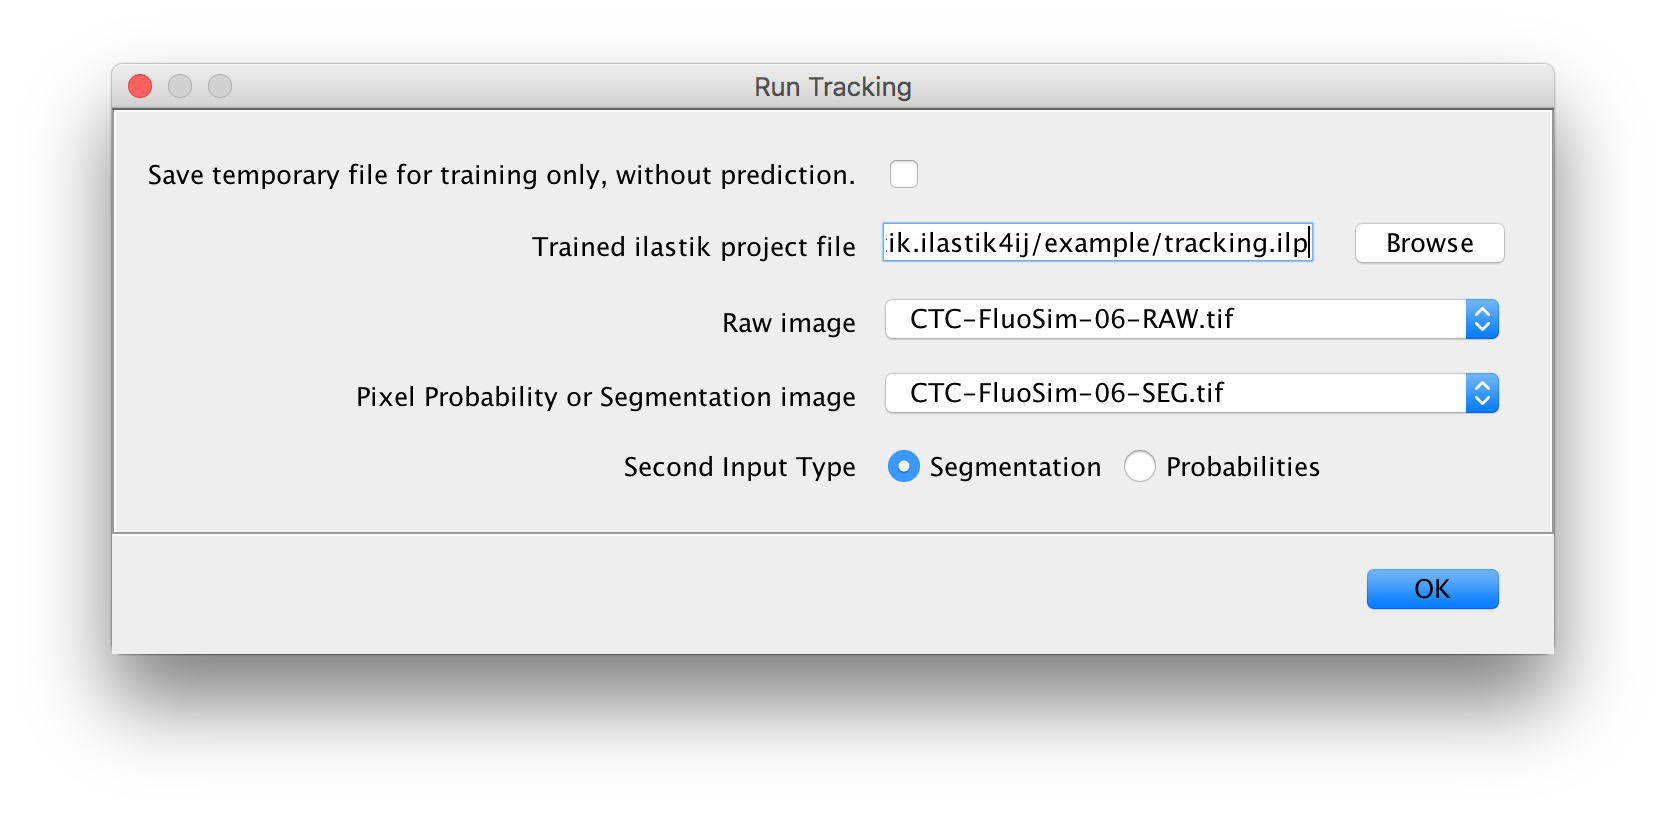
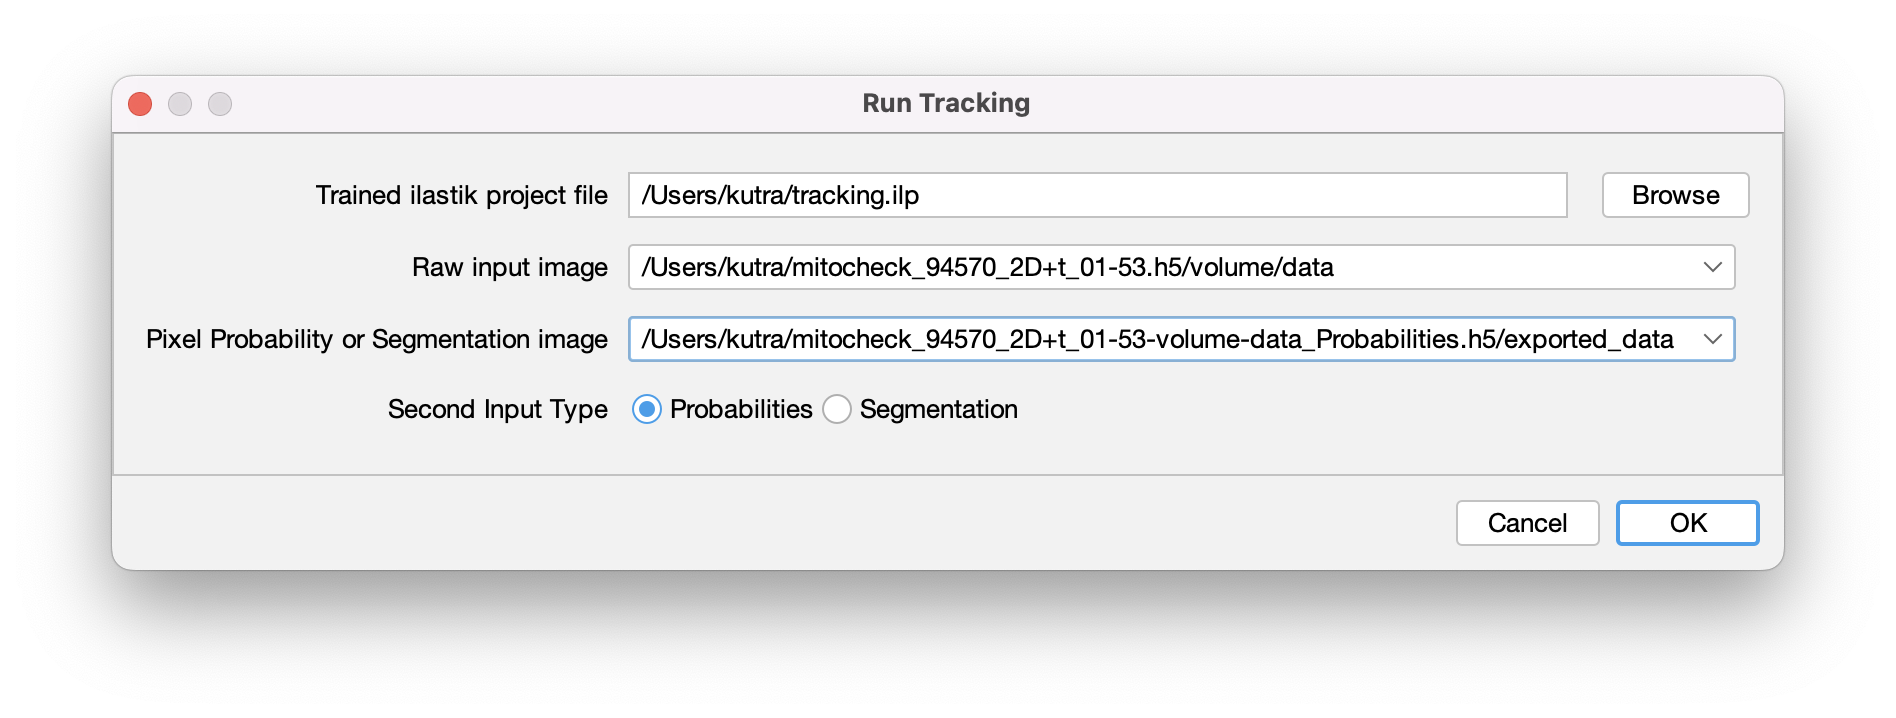
doc: update multicut screenshots

Changed region(s): [[0.0312, 0.0919, 0.9676, 0.8886], [0.1873, 0.5515, 0.6555, 0.6128], [0.6867, 0.5515, 0.7803, 0.5822]]

diff --git a/README.md b/README.md
@@ -191,25 +191,26 @@ A basic macro example for running object classification on a single image can be
 
 
 ### Boundary-based Segmentation with Multicut
-Found at `Plugins -> ilastik -> Run Multicut`.
 
-![Multicut Dialog](./doc/screenshots/multicut-dialog.png)
+Command for [Boundary-based Segmentation with Multicut](https://www.ilastik.org/documentation/multicut/multicut): `Plugins -> ilastik -> Run Multicut`.
+
+![Multicut Dialog](./doc/screenshots/IJ-mc-dialog.png)
 
 **Inputs:**
 
 * a project file
 * one raw image (select the appropriate one in the dropdown box as shown above)
-* one additional image that contains boundary probabilities. Those can be generated, e.g. in Pixel Classification or with a pre-trained Neural Network.
+* one additional image that contains boundary probabilities. Those can be generated, e.g. in Pixel Classification, Autocontext, or with a pre-trained Neural Network.
 
 **Output:**
 
 * a new integer value image (label image) where the pixels belonging to the same object have the same value.
   The example image below shows (left to right) raw data, boundary probability map, and multicut segmentation result (with applied LUT).
-  ![Multicut Output](./doc/screenshots/MC-output.png)
+  ![Multicut Output](./doc/screenshots/IJ-mc-output.png)
 
+#### Example macro usage
 
-
-
+A basic macro example for running Multicut on a single image can be found in [`./examples/multicut.ijm`](./examples/multicut.ijm).
 
 ### Tracking
 Found at `Plugins -> ilastik -> Run Tracking`.
@@ -221,7 +222,7 @@ Found at `Plugins -> ilastik -> Run Tracking`.
 * a project file
 * one raw image (with a time axis!) ![Tracking Raw Input](./doc/screenshots/IJ-Track-inputRaw.png)
 * one additional image that contains either per-pixel probabilities or a segmentation with the same dimensions as the raw image. 
-  ![Tracking Segmentation Input](./doc/screenshots/IJ-Track-inputSeg.png)
+  ![Tracking Segmentation Input](./doc/screenshots/IJ-Track-inputProb.png)
 * select the appropriate input type (_Probabilities_ or _Segmentation_)
 
 **Output:**
@@ -230,6 +231,10 @@ Found at `Plugins -> ilastik -> Run Tracking`.
   corresponds to the _lineage ID_ of the tracked object. Whenever an object enters the field of view
   it will be assigned a new _lineage ID_. All descendants of this object will be assigned the same
   _lineage ID_. ![Tracking Output](./doc/screenshots/IJ-Track-output.png)
+
+#### Example macro usage
+
+A basic macro example for running Tracking on a single image can be found in [`./examples/tracking.ijm`](./examples/tracking.ijm).
 
 ### Usage in KNIME
 
